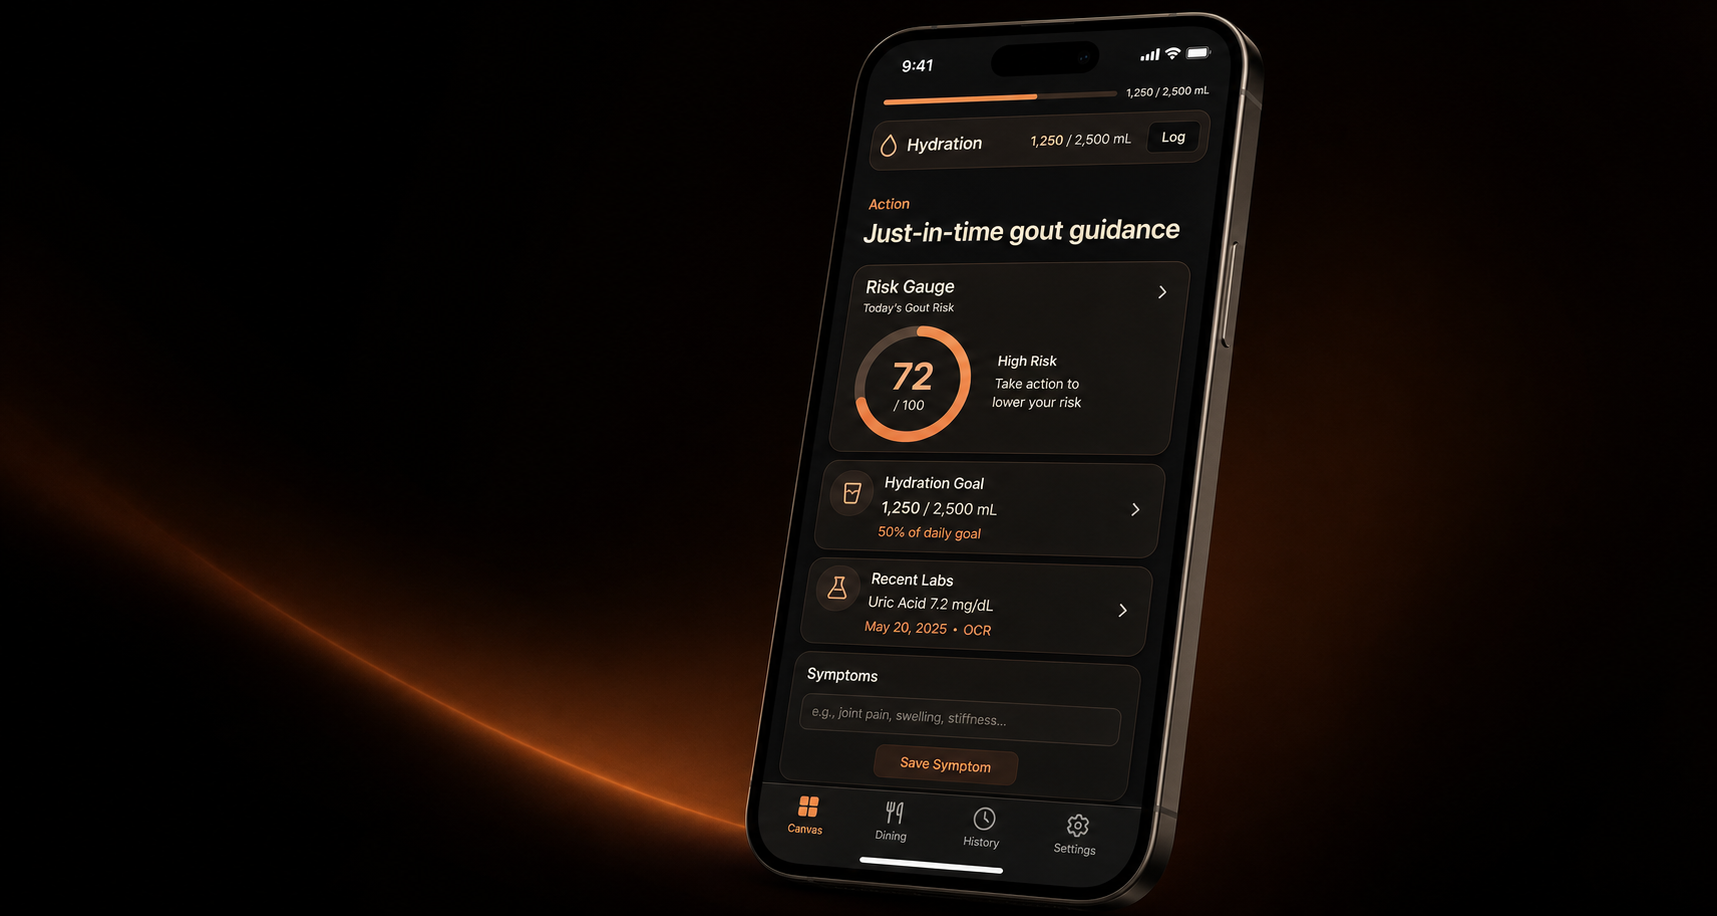
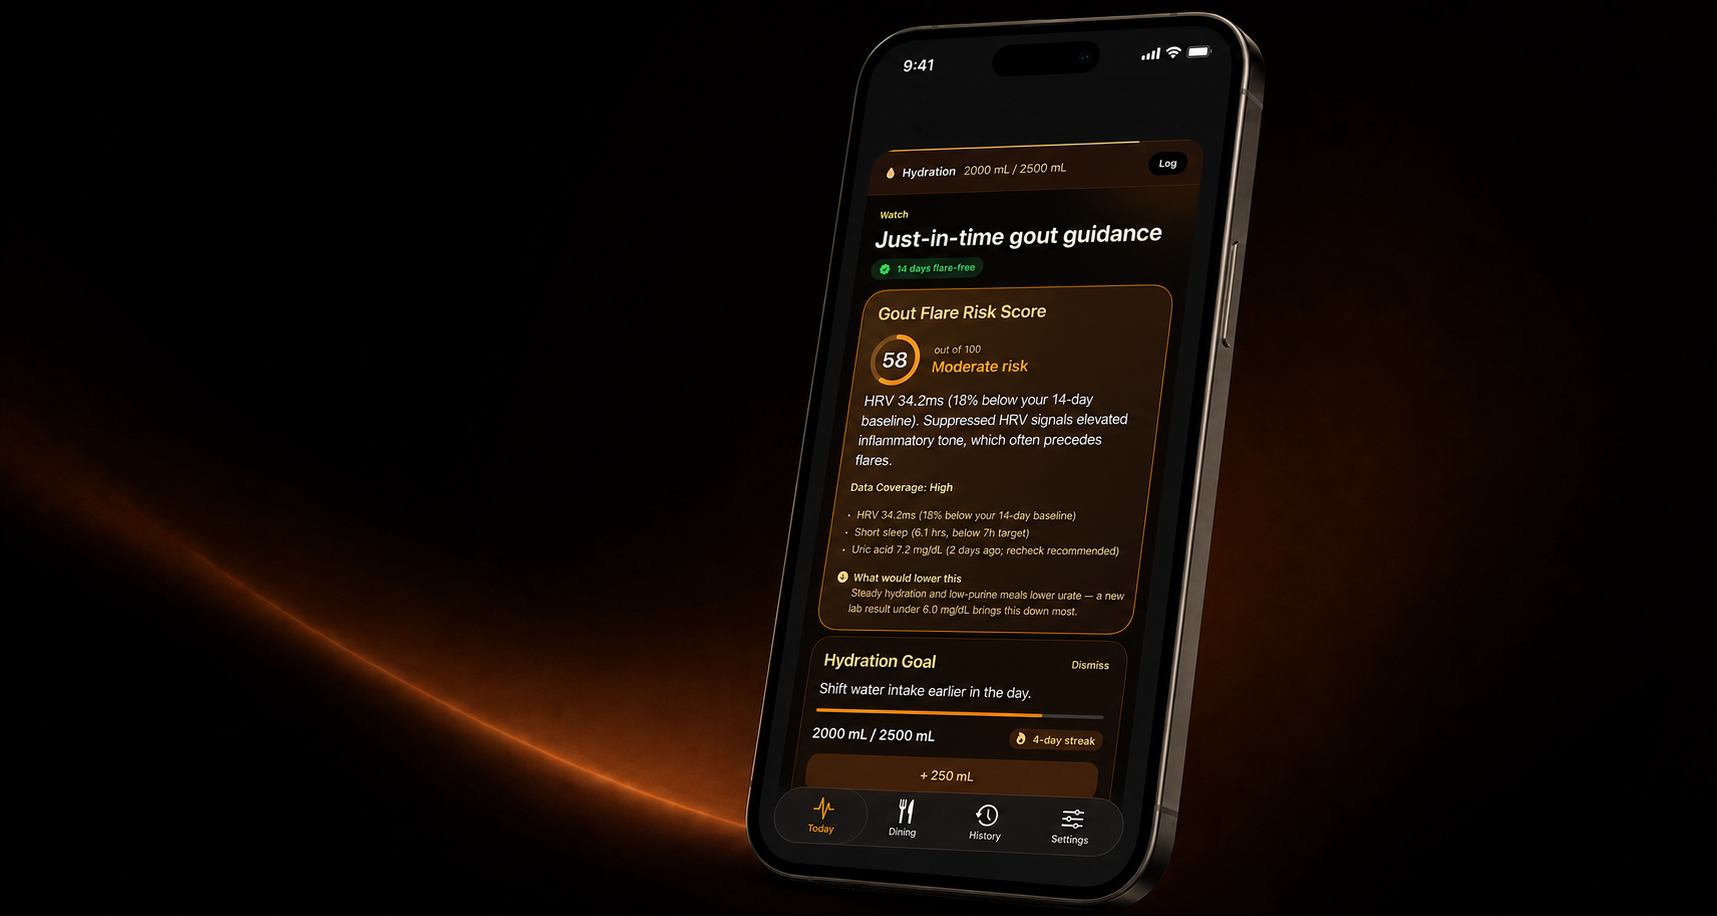
Refresh website content and dashboard

Changed region(s): [[0.463, 0.0306, 0.7408, 0.9782]]

diff --git a/index.html b/index.html
@@ -112,49 +112,55 @@
           </div>
         </div>
 
-        <p class="tagline">Gout flare risk changes throughout the day. Your plan should too.</p>
+        <h1 class="tagline">Stay ahead of your next flare.</h1>
 
         <p class="description">
-          Gout Compass is a <em>dynamic wellness canvas</em> for staying ahead of
-          gout flare risk. It brings hydration, Apple Health signals, meals, labs, and
-          symptoms into one adaptive daily view, then surfaces the right next step
-          at the right time.
+          Gout Compass turns hydration, Apple Health signals, meals, labs, and symptoms
+          into one clear daily risk score — with the reasons behind it and the next step
+          to bring it down.
         </p>
 
         <div class="features" aria-label="Gout Compass features">
           <section class="feature">
-            <h2>Hydration First</h2>
-            <p>Keep water intake visible all day with goals that adapt to your current risk level.</p>
+            <h2>Know Your Risk</h2>
+            <p>A 0–100 flare risk score, banded Low, Moderate, or High — built from your labs, symptoms, and Apple Health signals like HRV and sleep. Every score shows what’s driving it and what would lower it. No wearable required to start.</p>
           </section>
           <section class="feature">
-            <h2>Know Your Risk</h2>
-            <p>Understand whether today looks Optimal, Caution, or Critical using Apple Watch and Apple Health signals.</p>
+            <h2>Morning Briefing</h2>
+            <p>Start the day knowing where you stand. Smart notifications speak up when risk is elevated or changing, and ease off during long low-risk stretches.</p>
+          </section>
+          <section class="feature">
+            <h2>Hydration First</h2>
+            <p>Dehydration is a common flare trigger. Log water in seconds, keep progress visible all day, and build a streak. On higher-risk days, hydration moves to the front of your plan.</p>
+          </section>
+          <section class="feature">
+            <h2>Flare-Free Progress</h2>
+            <p>Watch your flare-free days add up — 14, 30, 90. The number that matters most, to you and your rheumatologist.</p>
           </section>
           <section class="feature">
             <h2>Meal Co-Pilot</h2>
-            <p>Check restaurant meals for purine risk before you order.</p>
+            <p>Check restaurant menus for purine risk before you order.</p>
           </section>
           <section class="feature">
             <h2>Track Your Labs</h2>
-            <p>Capture uric acid results from lab reports and follow trends over time.</p>
+            <p>Capture uric acid results from lab reports and follow your trend over time.</p>
           </section>
           <section class="feature">
-            <h2>AI Insights</h2>
-            <p>Get personalized wellness guidance that updates as your day changes.</p>
+            <h2>Private by Design</h2>
+            <p>No account, no sign-up. Your health data stays on your device, protected by Face ID.</p>
           </section>
         </div>
 
         <div class="links">
-          <p class="legal">Gout Compass is a wellness tool and does not provide medical advice.</p>
-          <p class="legal">Gout Compass is made by MetabolicOS Health, a product line of Hampi LLC.</p>
-          <p class="legal">© 2026 Hampi LLC. All rights reserved.</p>
+          <p class="legal">Gout Compass is a wellness tool and does not provide medical advice. Always consult your physician regarding gout treatment, diagnosis, and medication.</p>
+          <p class="legal">Gout Compass is made by MetabolicOS Health, a product line of Hampi LLC. © 2026 Hampi LLC.</p>
           <a href="/privacy">Privacy Policy</a> &nbsp;·&nbsp; <a href="/contact">Support</a>
         </div>
       </div>
 
       <div class="visual">
         <div class="visual-card">
-          <img class="screenshot" src="/app-screenshot.png" alt="Gout Compass app screenshot">
+          <img class="screenshot" src="/app-screenshot-dashboard.png" alt="Gout Compass dashboard shown on an iPhone">
         </div>
       </div>
     </div>

diff --git a/privacy.html b/privacy.html
@@ -35,8 +35,8 @@
   <div class="container">
     <nav><a class="brand" href="/" aria-label="Gout Compass"><img src="/gout-compass-mark.png" alt=""><span class="brand-name">Gout <span>Compass</span></span></a></nav>
 
-    <h1>Privacy Policy</h1>
-    <p class="updated">Last updated: July 2026</p>
+    <h1>Gout Compass Privacy Policy</h1>
+    <p class="updated">Last updated: July 13, 2026</p>
 
     <h2>Who We Are</h2>
     <p>This policy is issued by Hampi LLC ("we"), operating as MetabolicOS Health.</p>
@@ -47,10 +47,10 @@
     <h3>On your device (stored locally)</h3>
     <ul>
       <li>Age range, prior gout flare history, and baseline uric acid level you enter during setup</li>
-      <li>Symptom logs and purine intake notes you record</li>
+      <li>Symptom logs and severity notes you record</li>
       <li>Hydration logs</li>
-      <li>Lab results you enter manually</li>
-      <li>Your username (hashed password — we cannot recover it)</li>
+      <li>Lab results you enter manually or capture from lab reports</li>
+      <li>Menu scan history (item names and counts only — never images)</li>
     </ul>
 
     <h3>From Apple HealthKit (with your permission)</h3>
@@ -60,19 +60,21 @@
       <li>Blood glucose readings</li>
       <li>Active energy burned</li>
     </ul>
+    <p>The app works fully without HealthKit access; connecting it is optional.</p>
 
     <h3>From your camera/photo library (with your permission)</h3>
-    <p>Menu images you choose to photograph for the dining co-pilot feature. These are processed for text and not stored beyond the session.</p>
+    <p>Menu images you choose to photograph for the dining co-pilot feature. Text is extracted on your device; the images themselves are never uploaded or stored beyond the session.</p>
 
     <h3>Sent to our servers for risk analysis</h3>
-    <p>Your anonymized health metrics (HRV, sleep score, hydration, symptoms, labs) are sent to our backend to generate your gout flare risk assessment. This data is transmitted over encrypted HTTPS and is not linked to your name or email.</p>
+    <p>Your anonymized health metrics (HRV, sleep, hydration, symptoms, labs, menu text) are sent to our backend to generate your gout flare risk assessment. This data is transmitted over encrypted HTTPS, is not linked to your name or email, and is not stored after the response is returned.</p>
 
     <h3>Integration interest (optional)</h3>
-    <p>If you tap "Request" for Oura or WHOOP integration, your in-app username and an anonymous device ID are logged so we can follow up. This is entirely voluntary.</p>
+    <p>If you tap "Request" for Oura or WHOOP integration, an anonymous per-install identifier is logged so we can gauge demand. No name or contact information is sent. This is entirely voluntary.</p>
 
     <h2>What We Do Not Collect</h2>
     <ul>
-      <li>Your name, email address, or contact information</li>
+      <li>Your name, email address, or contact information — the app has no account or sign-up</li>
+      <li>Passwords or credentials of any kind (app lock uses Face ID / your device passcode; biometric data is handled entirely by iOS and never reaches us)</li>
       <li>Precise location</li>
       <li>Advertising identifiers</li>
       <li>Browsing history or data from other apps</li>
@@ -86,7 +88,8 @@
     <ul>
       <li>Health and log data is stored locally on your device using Apple's SwiftData framework.</li>
       <li>If you have iCloud enabled, your data syncs across your devices via iCloud (subject to Apple's iCloud privacy policy). You can disable this in your device's iCloud settings.</li>
-      <li>Risk assessment requests are processed on our backend server and are not persistently stored after the response is returned.</li>
+      <li>Risk assessment requests are processed on our backend server and are not persistently stored after the response is returned. Our backend keeps no database of user health data.</li>
+      <li>Reminders and the morning risk briefing are local notifications scheduled on your device — no push-notification service receives your data.</li>
     </ul>
 
     <h2>Third-Party Services</h2>
@@ -94,15 +97,16 @@
     <ul>
       <li><strong>Railway</strong> (railway.app) — hosts our backend API. Data in transit is encrypted. Railway's privacy policy applies to infrastructure-level processing.</li>
       <li><strong>Apple iCloud</strong> — optional sync. Apple's privacy policy applies.</li>
-      <li><strong>OpenAI API</strong> — used by our backend to assist with menu analysis and lab parsing. Menu text and lab text you submit may be processed by OpenAI. OpenAI does not use API data to train models per their API usage policy.</li>
     </ul>
-    <p>We do not use any third-party analytics SDKs, advertising SDKs, or crash reporting services.</p>
+    <p>We do not use any third-party analytics SDKs, advertising SDKs, crash reporting services, or AI/LLM providers. Menu analysis and lab parsing run on our own backend.</p>
 
     <h2>HealthKit</h2>
     <p>We access HealthKit data only to provide gout flare risk insights directly to you. We do not share HealthKit data with third parties except as described above (anonymized metrics sent to our own backend). We do not use HealthKit data for advertising or with data brokers.</p>
 
     <h2>Data Deletion</h2>
-    <p>Your local data can be deleted at any time by deleting the app from your device. To request deletion of any server-side records (integration interest logs), email us at <a href="mailto:[email redacted]">[email redacted]</a> and we will remove them within 30 days.</p>
+    <p>Your local data can be deleted at any time by deleting the app from your device (and removing the app's data from iCloud in Settings if sync was enabled). To request deletion of any server-side records (integration interest logs — the only server-side records we keep), email us at <a href="mailto:[email redacted]">[email redacted]</a> and we will remove them within 30 days.</p>
+
+    <h2>Children</h2>
     <p>This app is not directed at children under 13 and we do not knowingly collect data from children.</p>
 
     <h2>Changes to This Policy</h2>

diff --git a/contact.html b/contact.html
@@ -17,6 +17,8 @@
     nav a { color: #0ea5e9; text-decoration: none; font-size: 14px; }
     nav a:hover { text-decoration: underline; }
     h1 { font-size: 2rem; font-weight: 700; color: #ffffff; margin-bottom: 16px; }
+    h2 { font-size: 1.1rem; font-weight: 600; color: #ffffff; margin: 40px 0 8px;
+         padding-bottom: 6px; border-bottom: 1px solid #222; }
     p { color: #c0c0c0; margin: 12px 0; }
     a { color: #0ea5e9; text-decoration: none; }
     a:hover { text-decoration: underline; }
@@ -34,6 +36,20 @@
     <p>Have a question, found a bug, or want to share feedback? Reach the MetabolicOS Health support team at
       <a href="mailto:[email redacted]">[email redacted]</a> —
       we're a small team and aim to respond within 2 business days.
+    </p>
+
+    <h2>Common Questions</h2>
+
+    <p><strong>Does Gout Compass require an Apple Watch?</strong><br>
+      No. You can start with your flare history and lab results alone. Connecting Apple Health adds HRV and sleep signals to your risk score, but it's optional.
+    </p>
+
+    <p><strong>Why is there no account or login?</strong><br>
+      There’s nothing to sign up for. Your data stays on your device, protected by Face ID or your passcode. That’s by design. See our <a href="/privacy">Privacy Policy</a>.
+    </p>
+
+    <p><strong>How do I delete my data?</strong><br>
+      Delete the app and your data goes with it (if iCloud sync was on, also remove the app's data in iCloud settings). Details in the <a href="/privacy">Privacy Policy</a>.
     </p>
 
     <div class="footer">